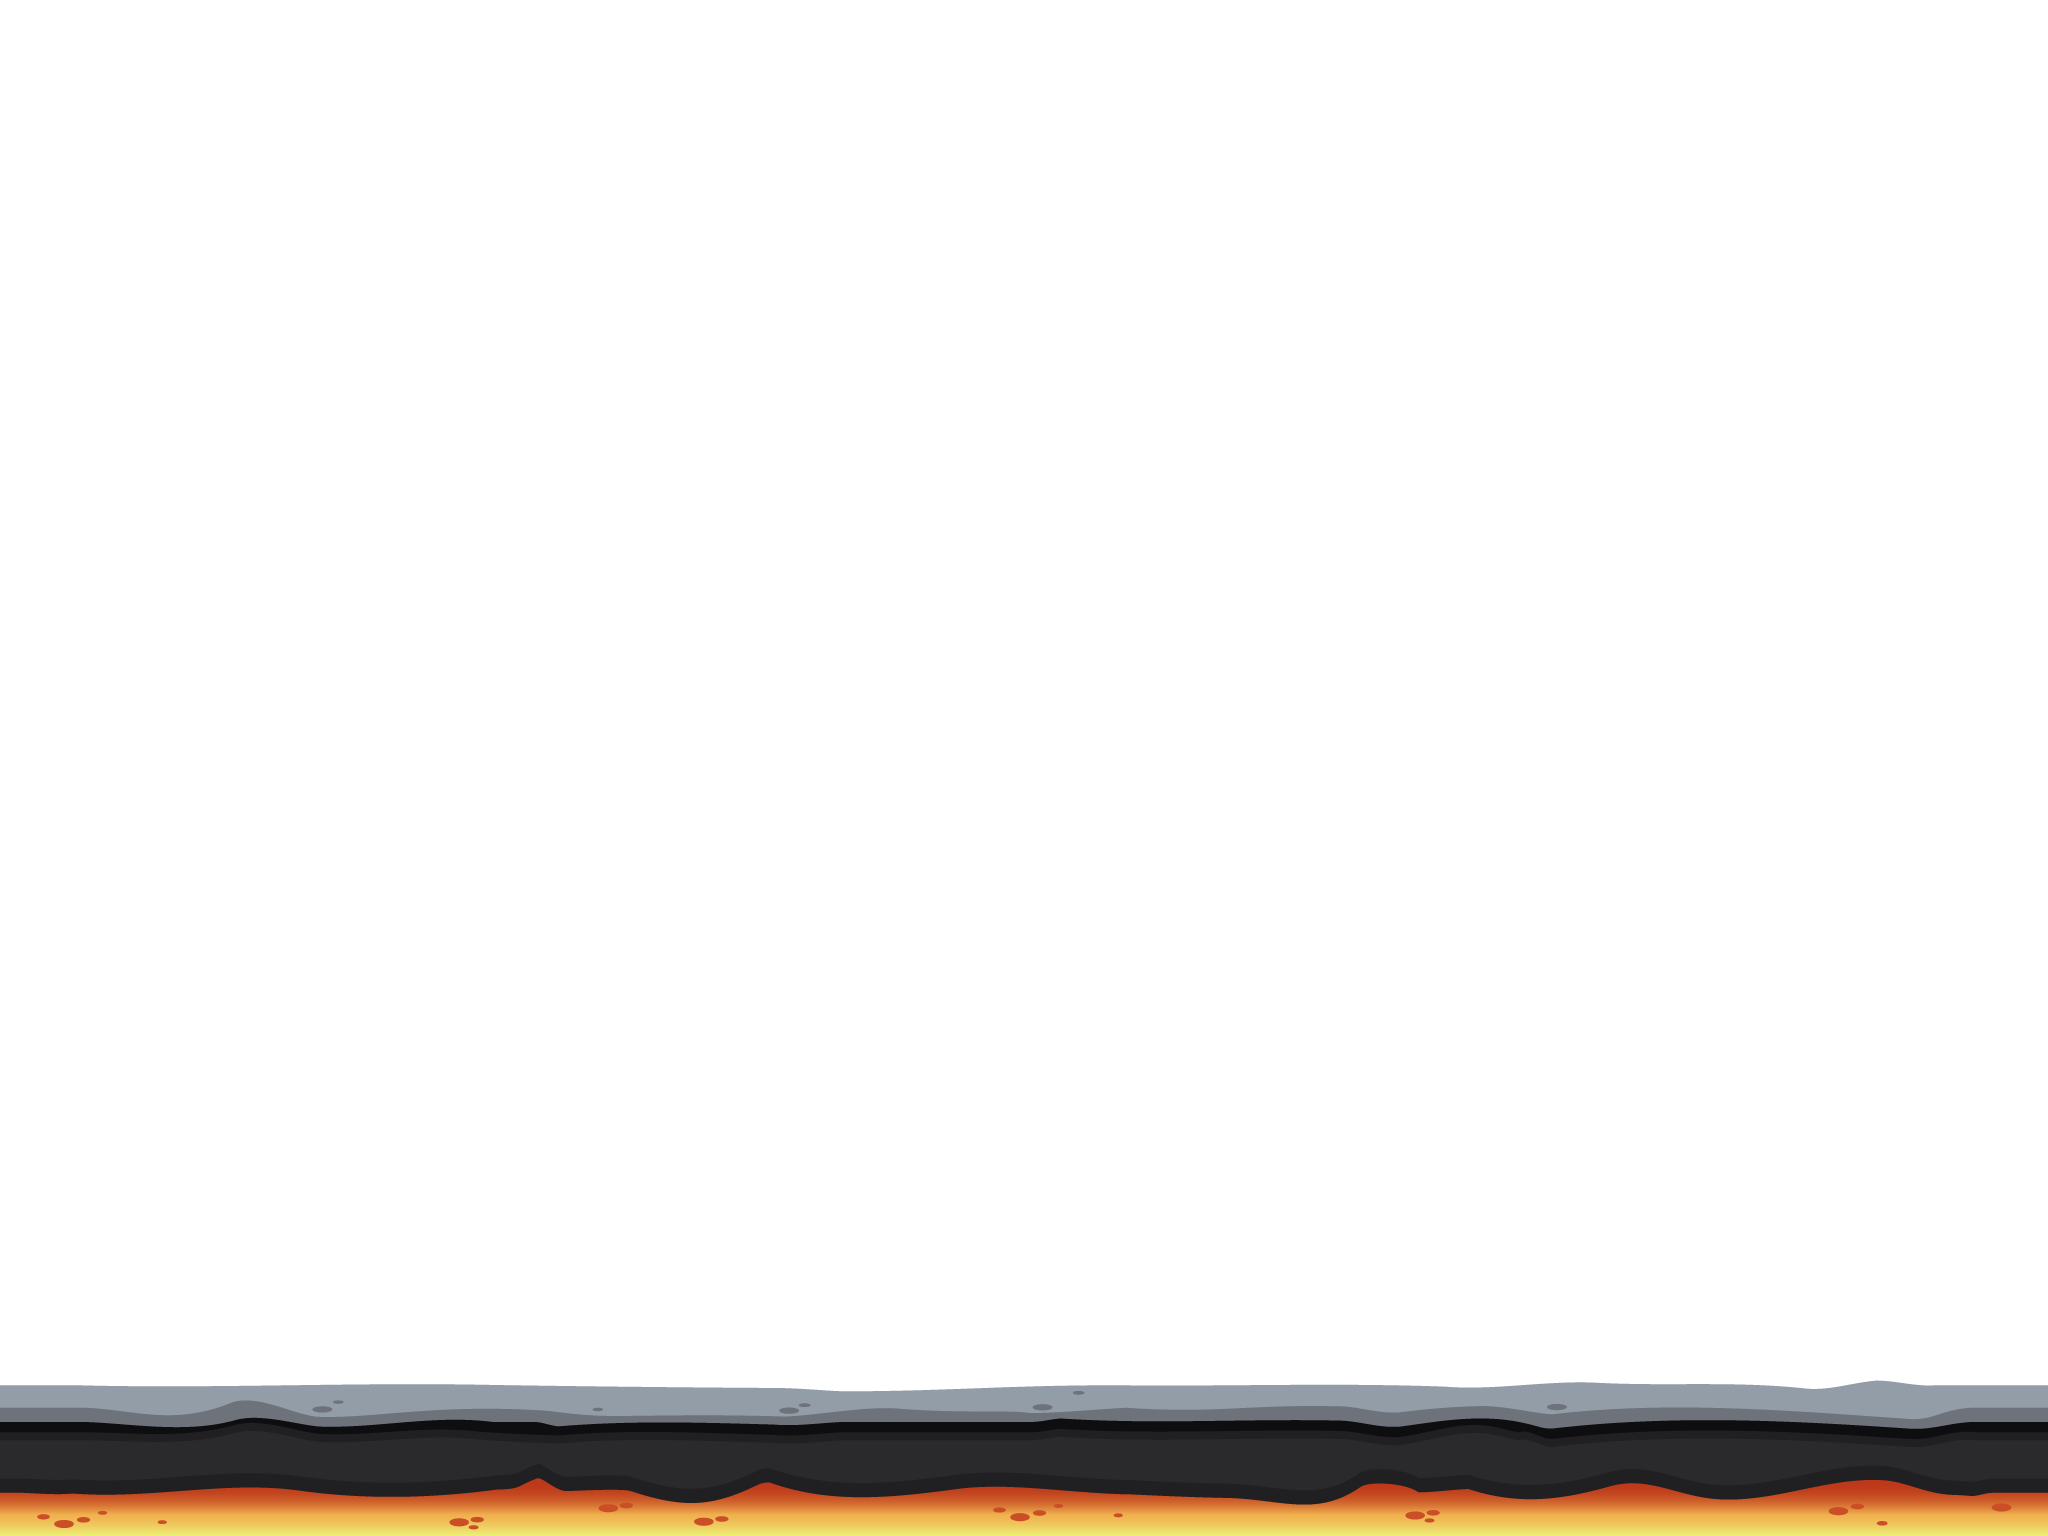
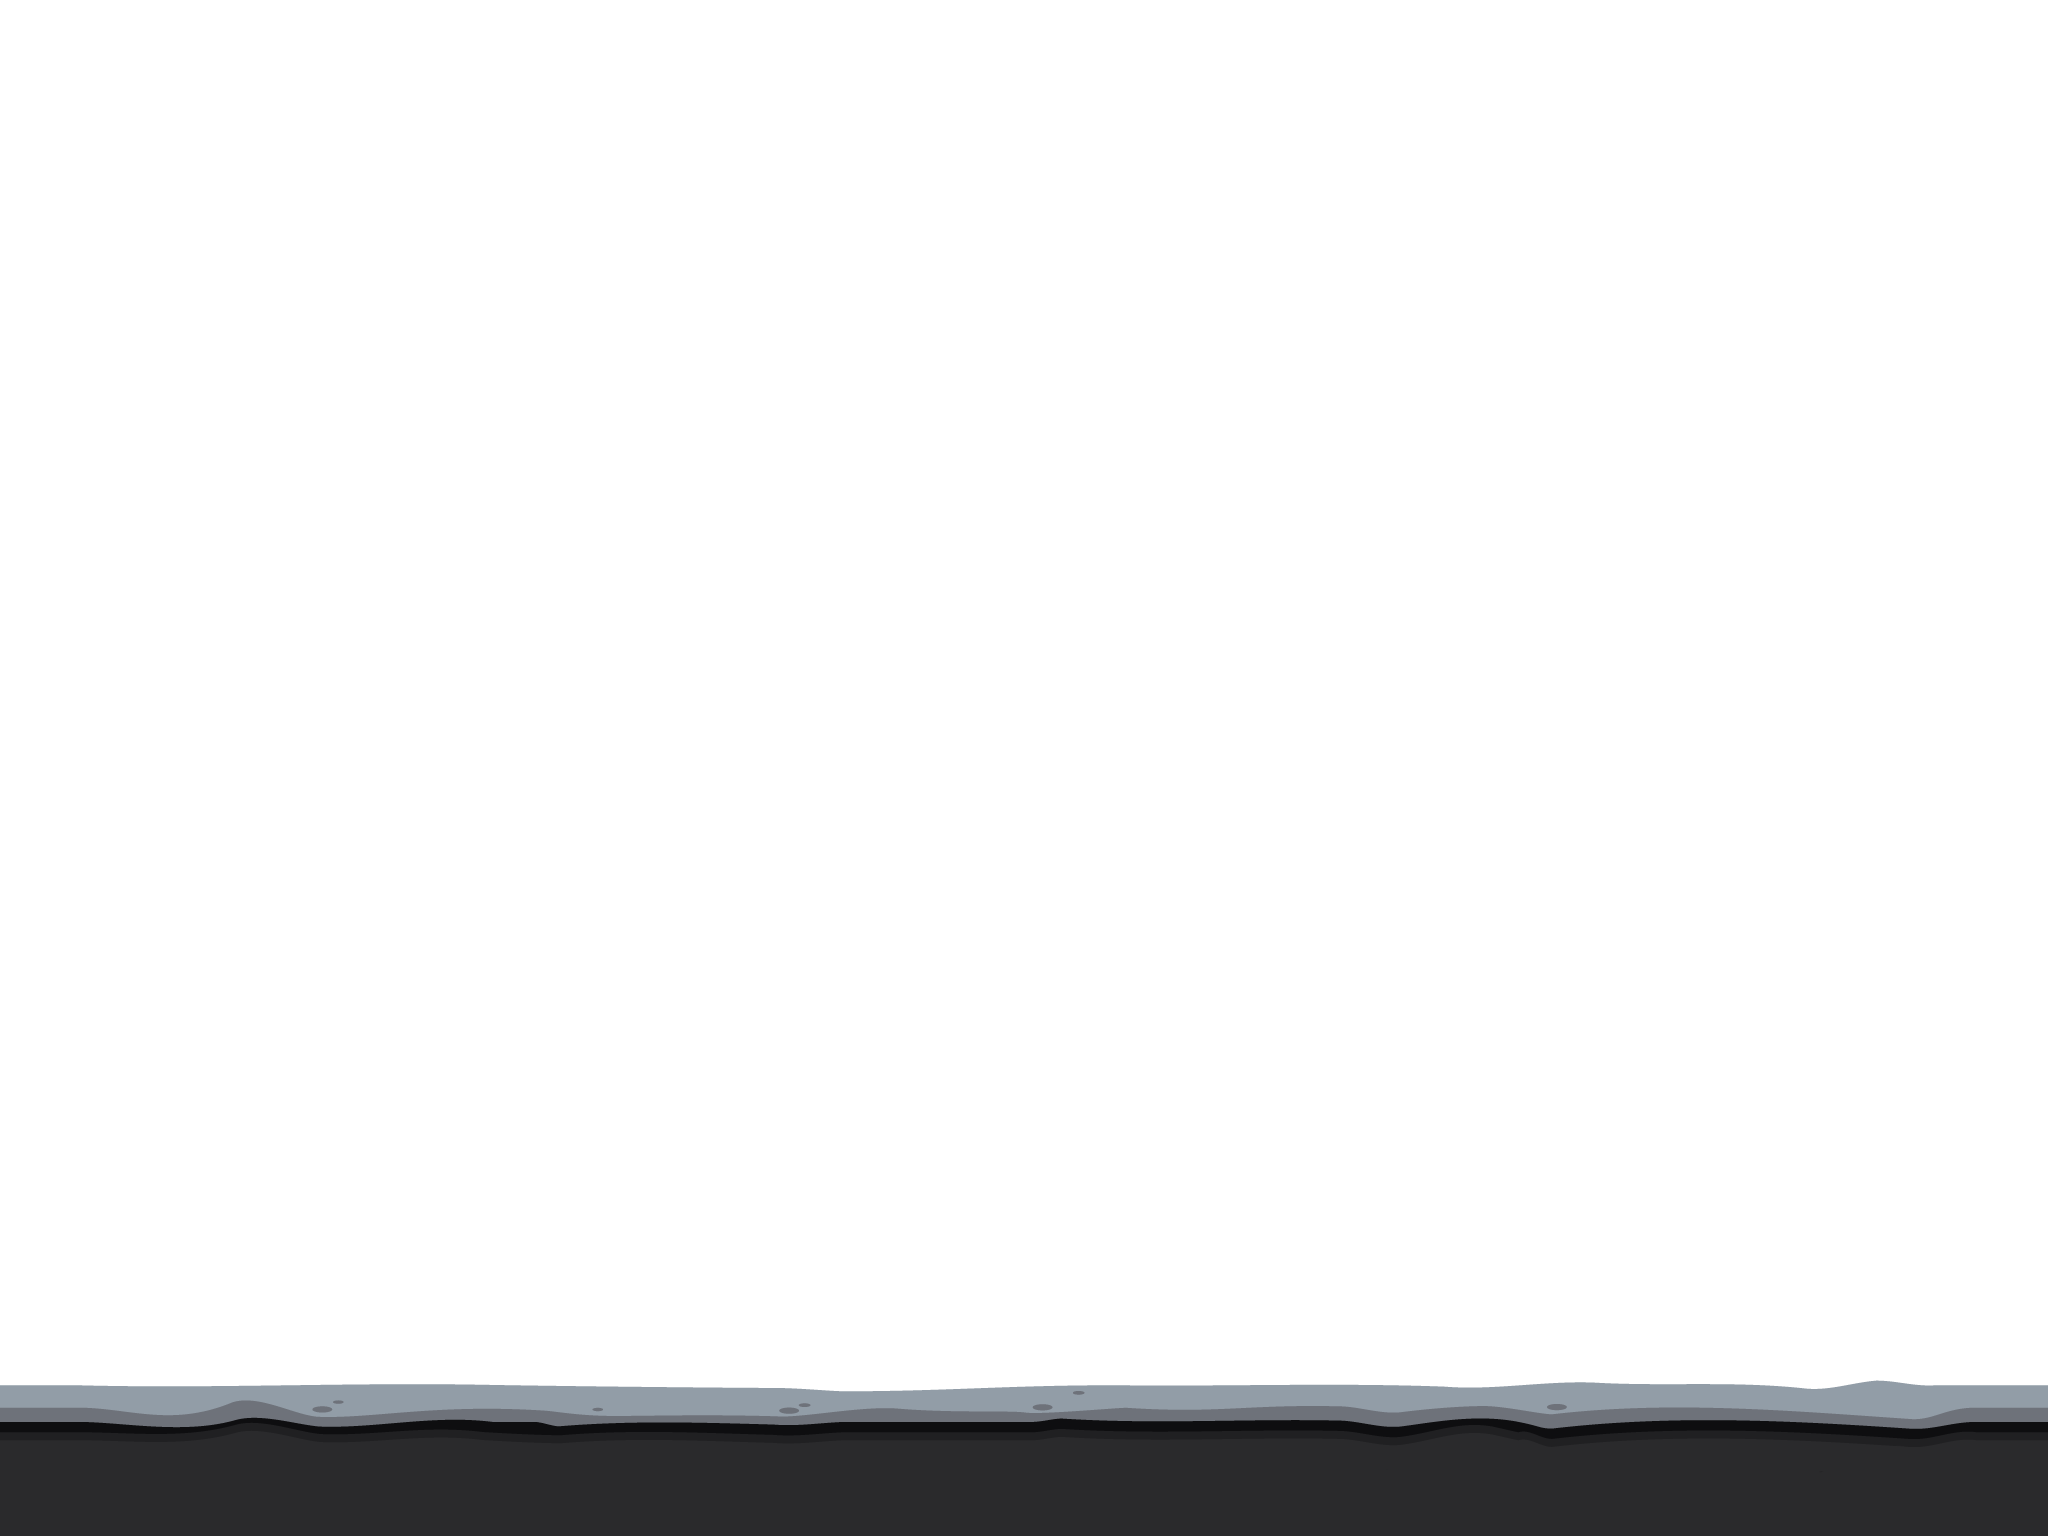
Optimized the background images. Closing background images issue. Fullscreen functionality is working now that we have background images. Clossing the Fix Fullscreen bug issue

Changed region(s): [[0.0, 0.9375, 1.0, 1.0]]

diff --git a/src/js/background.js b/src/js/background.js
@@ -1,5 +1,5 @@
 class Layer {
-    constructor(game, width, height, speedModifier, image, cloudType){
+    constructor(game, width, height, speedModifier, image, layerType){
         this.game = game;
         this.width = width;
         this.height = height;
@@ -8,28 +8,39 @@ class Layer {
         this.x = 0;
         this.y = 0;
         // cloud check properties
-        this.cloudType = cloudType;
-        this.cloudSpeedModifier = 0;
+        this.layerType = layerType;
+        this.layerSpeedModifier = 0;
+        this.speed = this.game.speed * this.speedModifier + this.layerSpeedModifier;
         // controls fps properties
         this.controlFps = 60;
-        this.controlFpsInterval = 1000 / this.controlFps;
+        this.controlFpsInterval = 500 / this.controlFps;
         this.controlFpsTimer = 0;
     }
     update(deltaTime){
         if (this.controlFpsTimer > this.controlFpsInterval){
             this.controlFpsTimer -= this.controlFpsInterval;
-            if (this.cloudType === "slow") this.cloudSpeedModifier = 1;
-            else if (this.cloudType === "fast")this.cloudSpeedModifier = 2;
-            if (this.x < -this.width) this.x = 0;
-            else this.x -= (this.game.speed * this.speedModifier) + this.cloudSpeedModifier;
+            if (this.layerType === "slow") this.layerSpeedModifier = 0.5;
+            else if (this.layerType === "fast") this.layerSpeedModifier = 2;
+            else if (this.layerType === "lava-red") this.layerSpeedModifier = -2;
+            else if (this.layerType === "lava-orange") this.layerSpeedModifier = 1;
+            // background image movement (without Math.floor there are lines between the copied layers)
+            this.speed = this.game.speed * this.speedModifier + this.layerSpeedModifier;
+            this.x = Math.floor(this.x - this.speed) % this.width;
         } else {
             this.controlFpsTimer += deltaTime;
         }
     }
     draw(ctx){
-        ctx.drawImage(this.image, this.x, this.y, this.width, this.height);
-        ctx.drawImage(this.image, this.x + this.width, this.y, this.width, this.height);
-        ctx.drawImage(this.image, this.x + this.width * 2, this.y, this.width, this.height);
+        // the red lava travels from left to right, so an image must be drawn on both sides of the original image
+        if (this.layerType === "lava-red"){
+            ctx.drawImage(this.image, this.x, this.y, this.width, this.height);
+            ctx.drawImage(this.image, this.x + -this.width, this.y, this.width, this.height);
+            ctx.drawImage(this.image, this.x + this.width, this.y, this.width, this.height);
+        } else {
+            ctx.drawImage(this.image, this.x, this.y, this.width, this.height);
+            ctx.drawImage(this.image, this.x + this.width, this.y, this.width, this.height);
+            ctx.drawImage(this.image, this.x + this.width * 2, this.y, this.width, this.height);
+        }
     }
 }
 
@@ -45,18 +56,20 @@ export class Background {
         this.layer5Image = document.getElementById('layer5');
         this.layer6Image = document.getElementById('layer6');
         this.layer7Image = document.getElementById('layer7');
-        this.layer1 = new Layer(this.game, this.width, this.height, 0, this.layer1Image);
-        this.layer2 = new Layer(this.game, this.width, this.height, 1, this.layer2Image, "slow"); // clouds
-        this.layer3 = new Layer(this.game, this.width, this.height, 0, this.layer3Image);
+        this.layer8Image = document.getElementById('layer8');
+        this.layer1 = new Layer(this.game, this.width, this.height, 0.0025, this.layer1Image);
+        this.layer2 = new Layer(this.game, this.width, this.height, 0.75, this.layer2Image, "slow"); // clouds
+        this.layer3 = new Layer(this.game, this.width, this.height, 0.35, this.layer3Image);
         this.layer4 = new Layer(this.game, this.width, this.height, 1, this.layer4Image, "fast"); // clouds
-        this.layer5 = new Layer(this.game, this.width, this.height, 0, this.layer5Image);
-        this.layer6 = new Layer(this.game, this.width, this.height, 0, this.layer6Image);
-        this.layer7 = new Layer(this.game, this.width, this.height, 0, this.layer7Image);
+        this.layer5 = new Layer(this.game, this.width, this.height, 1, this.layer5Image);
+        this.layer6 = new Layer(this.game, this.width, this.height, 1, this.layer6Image, "lava-red");
+        this.layer7 = new Layer(this.game, this.width, this.height, 1, this.layer7Image);
+        this.layer8 = new Layer(this.game, this.width, this.height, 1, this.layer8Image, "lava-orange");
         this.backgroundLayers = [
             this.layer1, this.layer2,
             this.layer3, this.layer4, 
             this.layer5, this.layer6,
-            this.layer7
+            this.layer7, this.layer8
         ];
     }
     update(deltaTime){

diff --git a/src/js/main.js b/src/js/main.js
@@ -16,18 +16,18 @@ window.addEventListener('load', function(){
     canvas.height = 768;
     
     // implements the fullscreen functionality 
-    // const fullScreenBtn = document.getElementById('fullScreenBtn');
-    // const toggleFullScreen = function(){
-    //     if (!document.fullScreenElement){
-    //         canvas.requestFullscreen()
-    //         .catch(err => {
-    //             alert(`Error, can't enable full-screen mode: ${err.message}`);
-    //         })
-    //     } else {
-    //         document.exitFullscreen();
-    //     }
-    // }
-    // fullScreenBtn.addEventListener('click', toggleFullScreen);
+    const fullScreenBtn = document.getElementById('fullScreenBtn');
+    const toggleFullScreen = function(){
+        if (!document.fullScreenElement){
+            canvas.requestFullscreen()
+            .catch(err => {
+                alert(`Error, can't enable full-screen mode: ${err.message}`);
+            })
+        } else {
+            document.exitFullscreen();
+        }
+    }
+    fullScreenBtn.addEventListener('click', toggleFullScreen);
 
     // Game class ////////////////////////////////
     class Game {
@@ -97,7 +97,8 @@ window.addEventListener('load', function(){
         ctx.clearRect(0, 0, canvas.width, canvas.height);
         game.update(deltaTime);
         game.draw(ctx);
-        if (!game.gameOver) requestAnimationFrame(animate);
+        // if (!game.gameOver) requestAnimationFrame(animate);
+        requestAnimationFrame(animate);
     }
     animate(0);
 });

diff --git a/src/index.html b/src/index.html
@@ -28,5 +28,6 @@
     <img src="/background/layer-5.png" class="d-none" id="layer5">
     <img src="/background/layer-6.png" class="d-none" id="layer6">
     <img src="/background/layer-7.png" class="d-none" id="layer7">
+    <img src="/background/layer-8.png" class="d-none" id="layer8">
   </body>
 </html>
